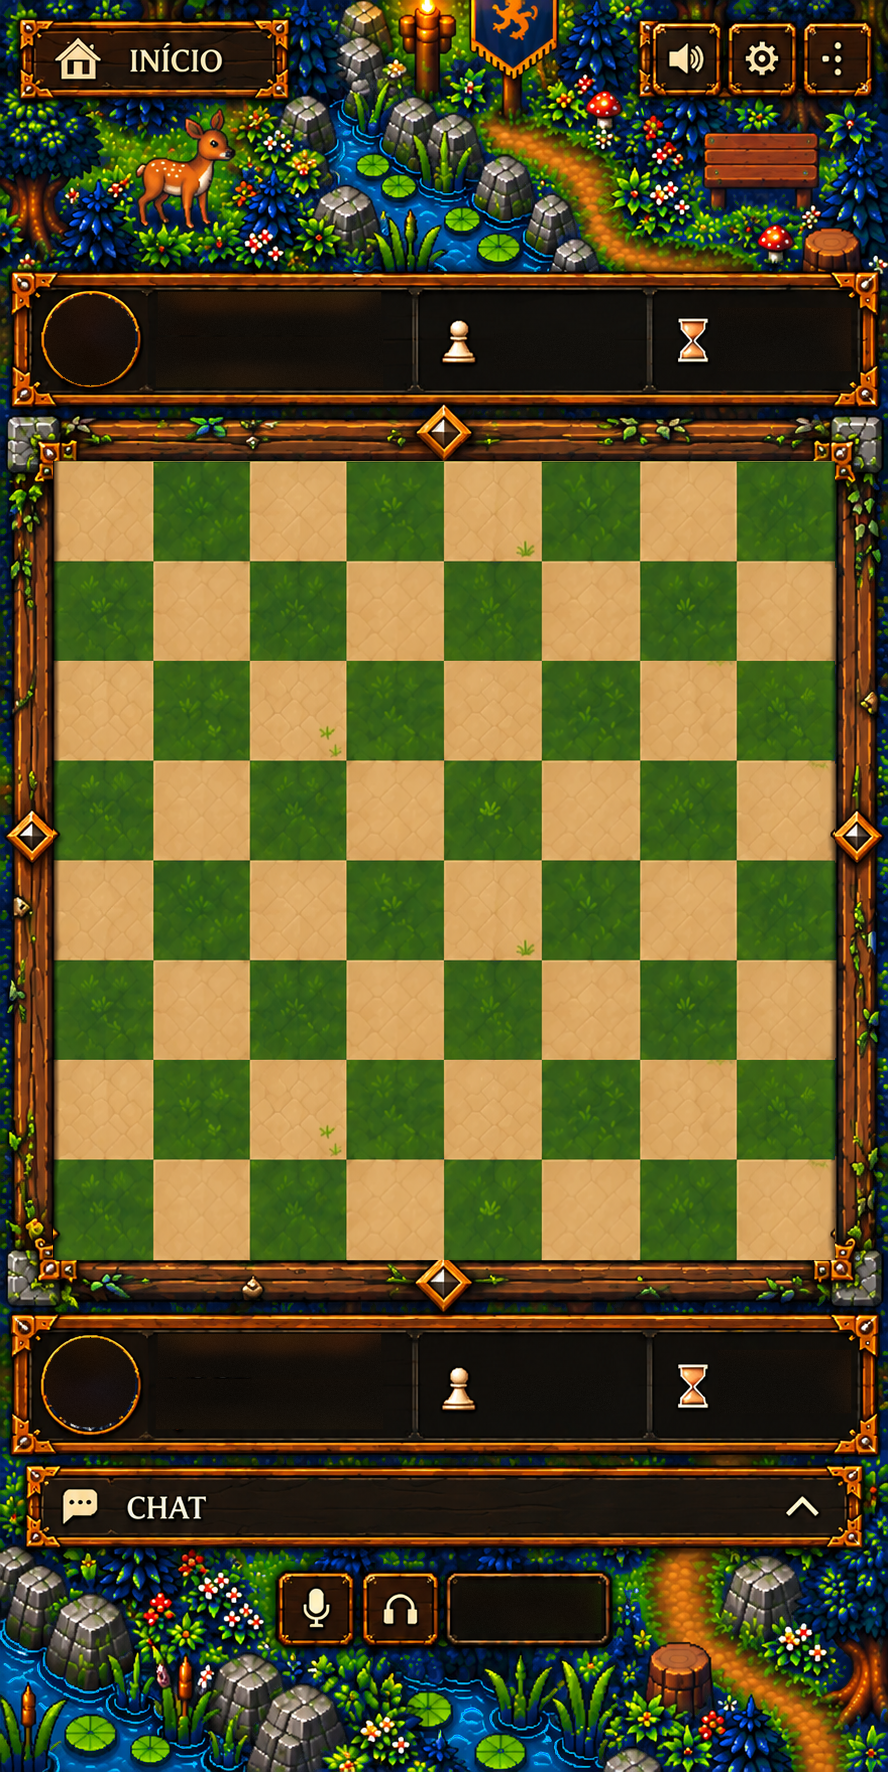
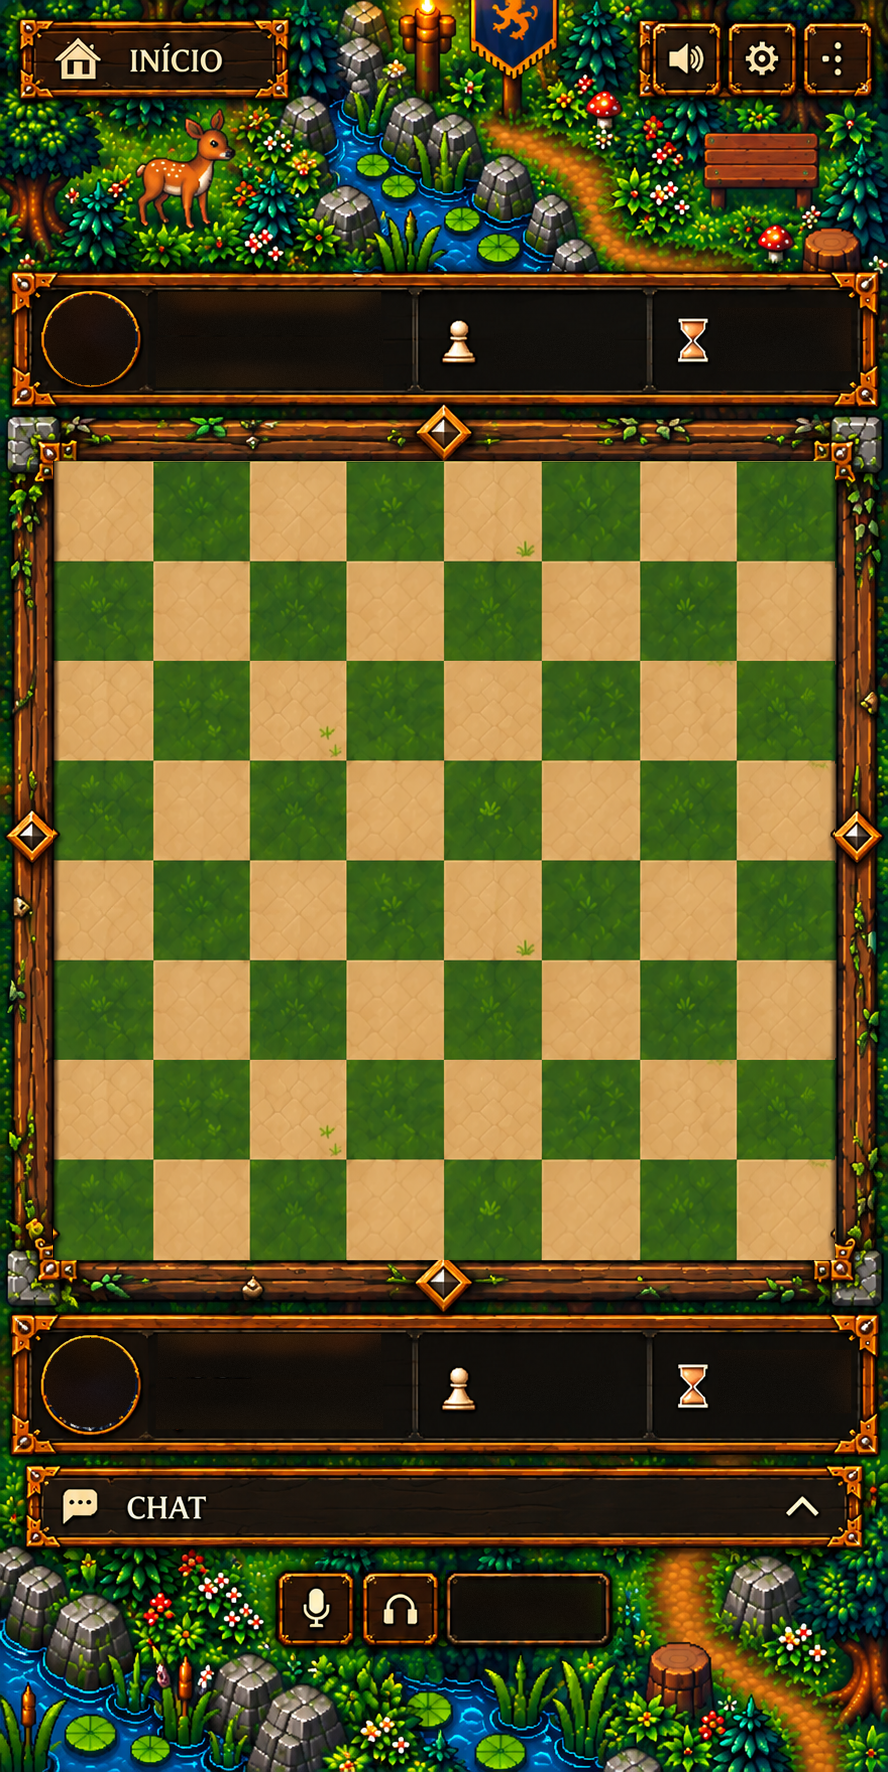
R131: folhagem do cenário da partida Madeira volta ao VERDE (o R113 era para trocar só o verde dos painéis/botões, mas as árvores verde-azuladas também viraram azul) — PC, celular em pé e deitado; painéis e placas continuam no azul aprovado; tabuleiro da análise recortado de novo da arte certa
Claude-Session: https://claude.ai/code/session_016vKvXoMfUjcNC2AWvYdkWV

diff --git a/tools/art/folhagem_original_r131.py b/tools/art/folhagem_original_r131.py
@@ -1,0 +1,27 @@
+#!/usr/bin/env python3
+"""R131 · a folhagem do cenário da partida (Madeira) tinha ficado AZUL: o R113 (verde_para_azul.py) era para trocar só
+o verde dos PAINÉIS/BOTÕES, mas as árvores verde-azuladas caíram na mesma faixa de cor. Aqui: cenário = arte ORIGINAL
+(antes do R113) e só dentro dos painéis/botões fica a versão azul aprovada.
+Retângulos = ranked/board_skin.gd (PC 1672x941 e celular 888x1772). Uso: python3 tools/art/folhagem_original_r131.py"""
+import os, subprocess, io
+from PIL import Image
+ROOT = os.path.join(os.path.dirname(os.path.abspath(__file__)), "..", "..")
+BEFORE = "0ac500c^"   # commit anterior ao R113
+PAD = 0   # contorno exato do painel (margem trazia de volta folhagem azul em volta)
+PC = [(18, 17, 225, 60), (1085, 10, 580, 68), (1158, 122, 488, 168), (1158, 122 + 566, 488, 168),
+      (1158, 305, 488, 370)]   # DESISTIR é vermelho (o R113 não mexeu nele): fica a arte original
+MOB = [(20, 20, 268, 80), (640, 20, 80, 75), (728, 20, 72, 75), (806, 20, 66, 75), (12, 272, 864, 134),
+       (12, 272 + 1042, 864, 134), (25, 1465, 837, 80), (278, 1570, 74, 75), (362, 1570, 74, 75), (446, 1570, 164, 75)]
+LAND = [(535, 18, 610, 92), (535, 818, 610, 92)]   # celular deitado (mob_hud_l_art): as 2 barras de jogador
+PORT = [(125, 75, 710, 100), (85, 972, 765, 102)]   # celular em pé (mob_hud_p_top): as 2 placas de jogador
+MOB_BOT = MOB[:7]   # contra o bot: sem microfone/fone/voz (ali é folhagem)
+for name, rects in [("board_pc", PC), ("board_pc_bot", PC), ("board_mob", MOB), ("board_mob_bot", MOB_BOT), ("mob_hud_l_art", LAND), ("mob_hud_p_top", PORT), ("mob_hud_fill", [])]:   # fill = só cenário
+    path = os.path.join(ROOT, "ranked/art", name + ".png")
+    blue = Image.open(path).convert("RGB")
+    raw = subprocess.check_output(["git", "-C", ROOT, "show", f"{BEFORE}:ranked/art/{name}.png"])
+    out = Image.open(io.BytesIO(raw)).convert("RGB")
+    for x, y, w, h in rects:
+        box = (max(0, x - PAD), max(0, y - PAD), min(out.width, x + w + PAD), min(out.height, y + h + PAD))
+        out.paste(blue.crop(box), box[:2])
+    out.save(path, optimize=True)
+    print(name, out.size)
